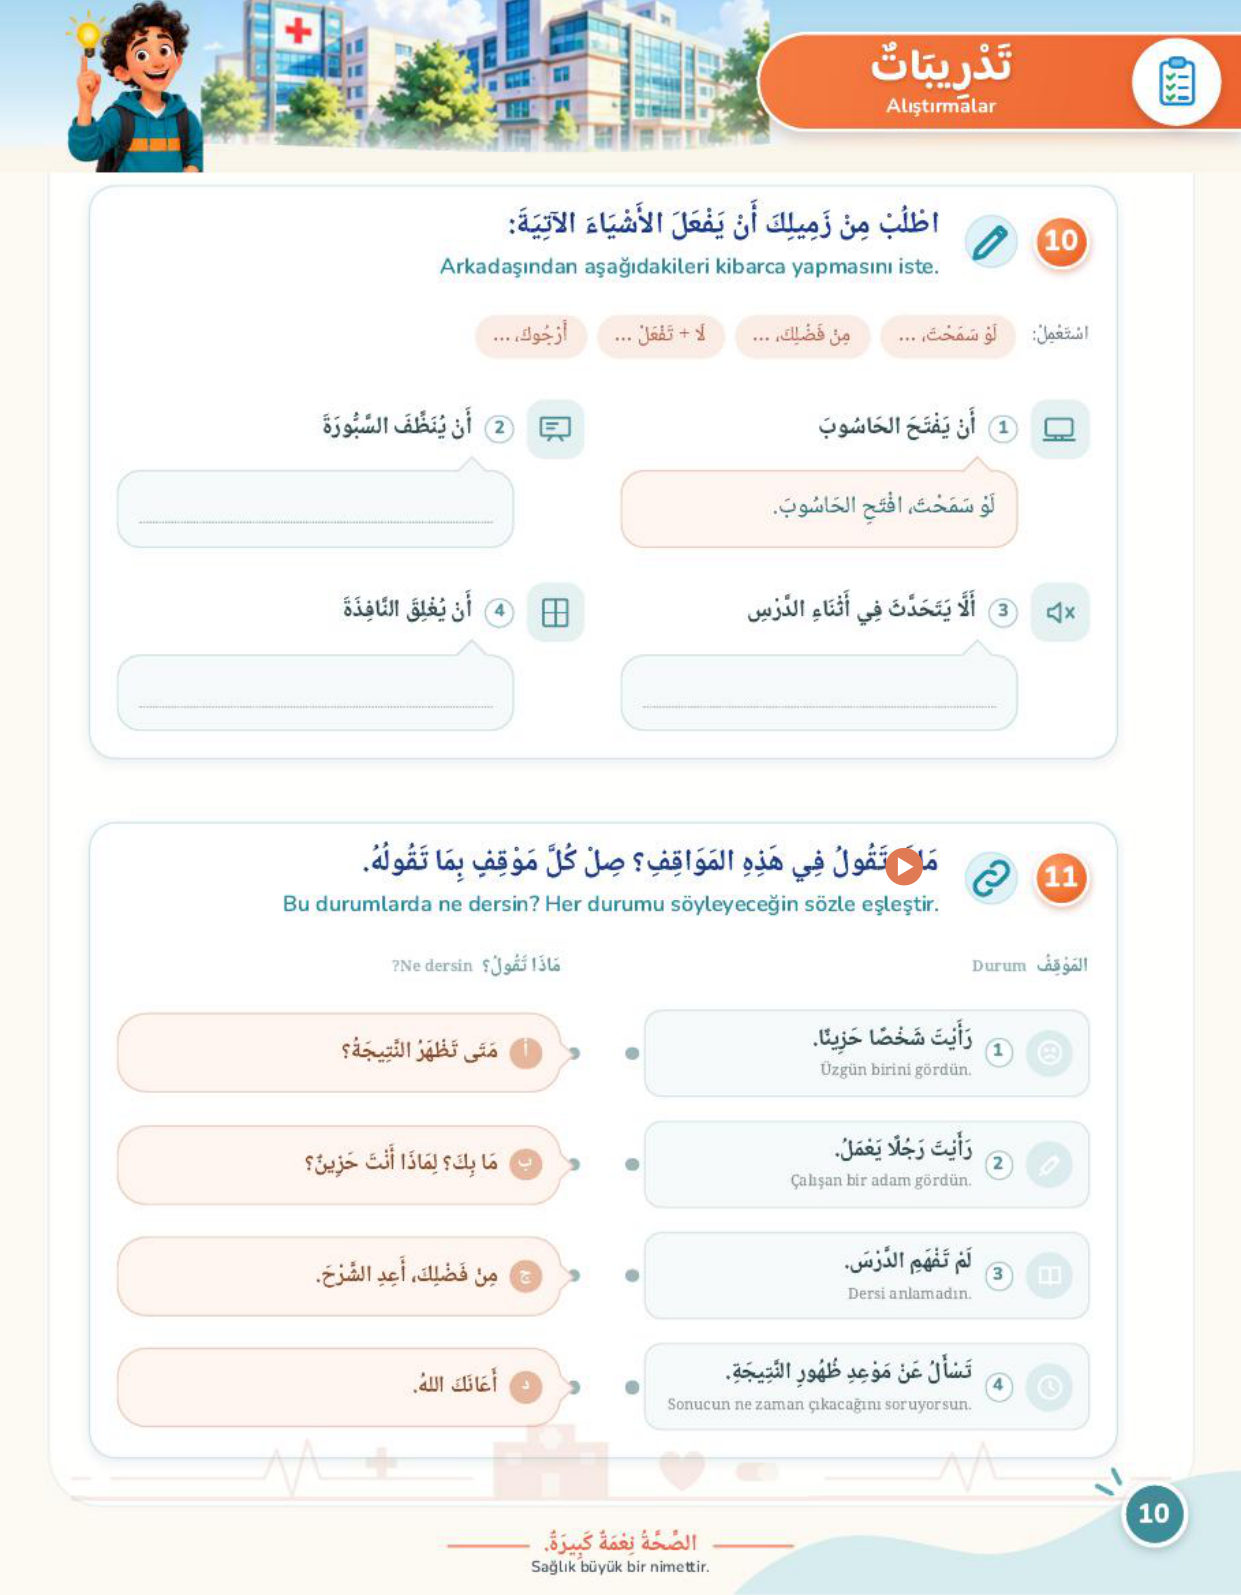
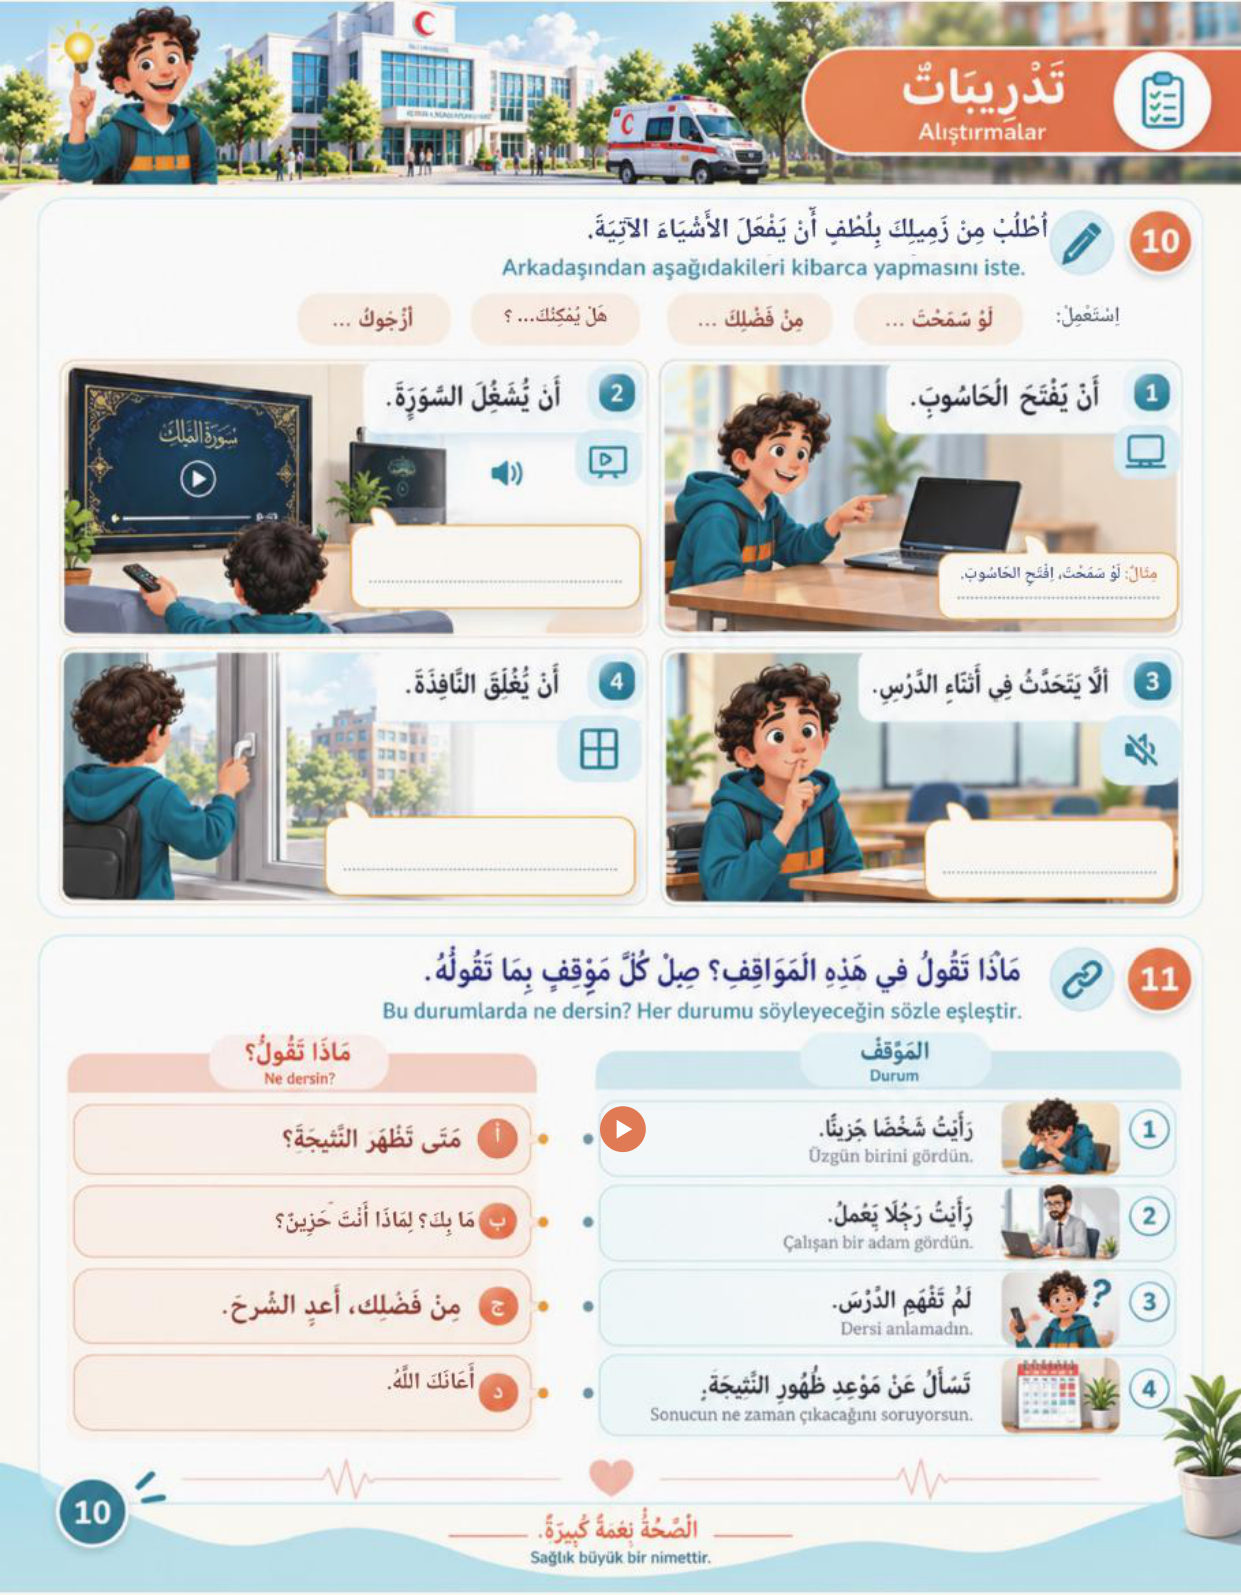
Refresh interactive books from newest unit file

diff --git a/l1/book/index.html b/l1/book/index.html
@@ -31,7 +31,7 @@ main{max-width:900px;margin:0 auto;padding:12px 8px 40px;display:flex;flex-direc
 <section class="pg" id="p7"><img src="p07.jpg" width="1241" height="1595" alt="صفحة 7" loading=lazy></section>
 <section class="pg" id="p8"><img src="p08.jpg" width="1241" height="1595" alt="صفحة 8" loading=lazy><button class="hs" style="left:8.06%;top:83.22%;width:84.33%;height:12.41%" data-src="../v/L1-ex-visit.mp4" aria-label="تشغيل"></button></section>
 <section class="pg" id="p9"><img src="p09.jpg" width="1241" height="1595" alt="صفحة 9" loading=lazy><button class="hs" style="left:4.03%;top:19.6%;width:43.68%;height:12.8%" data-src="../v/L1-ex-reception.mp4" aria-label="تشغيل"></button></section>
-<section class="pg" id="p10"><img src="p10.jpg" width="1241" height="1595" alt="صفحة 10" loading=lazy><button class="hs" style="left:74.92%;top:52.13%;width:5.71%;height:4.44%" data-src="../v/L1-ex-whatsay.mp4" aria-label="تشغيل"></button></section>
+<section class="pg" id="p10"><img src="p10.jpg" width="1241" height="1595" alt="صفحة 10" loading=lazy><button class="hs" style="left:47.88%;top:68.98%;width:47.54%;height:21.43%" data-src="../v/L1-ex-whatsay.mp4" aria-label="تشغيل"></button></section>
 </main>
 <div id="vm" role="dialog" aria-label="فيديو"><video id="vv" controls playsinline></video><button id="vx" aria-label="إغلاق">✕</button></div>
 <script>
